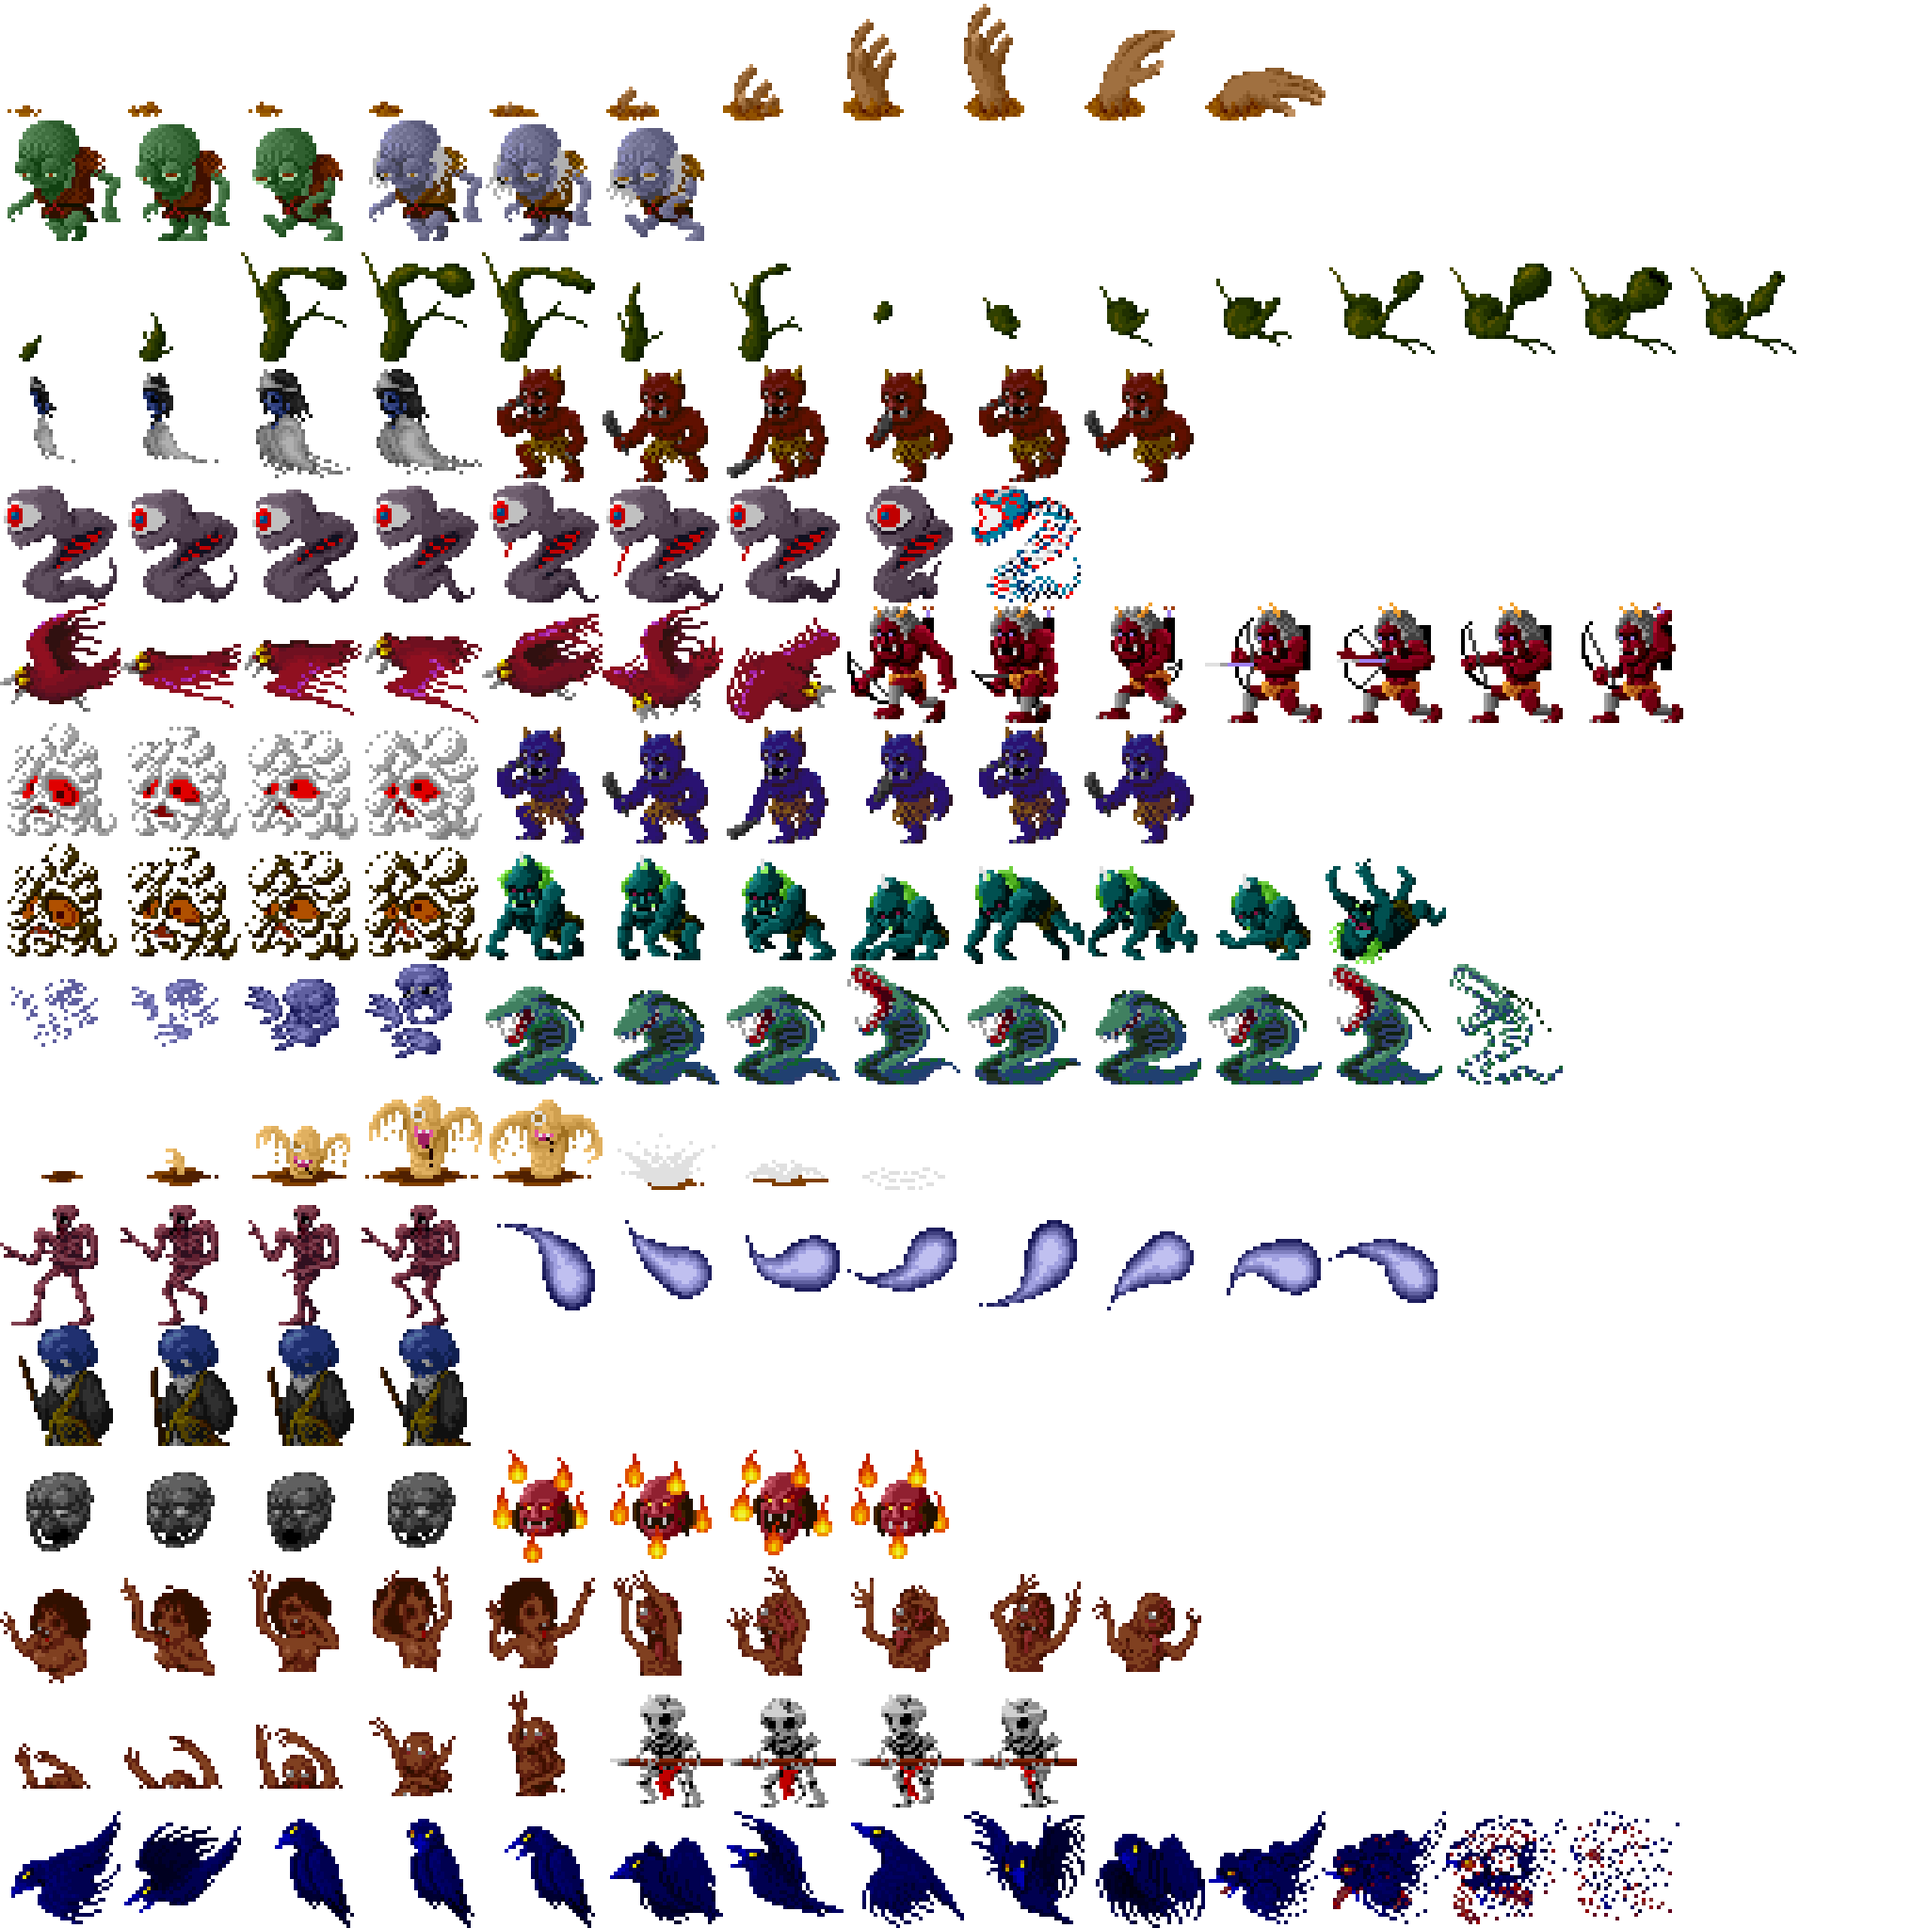
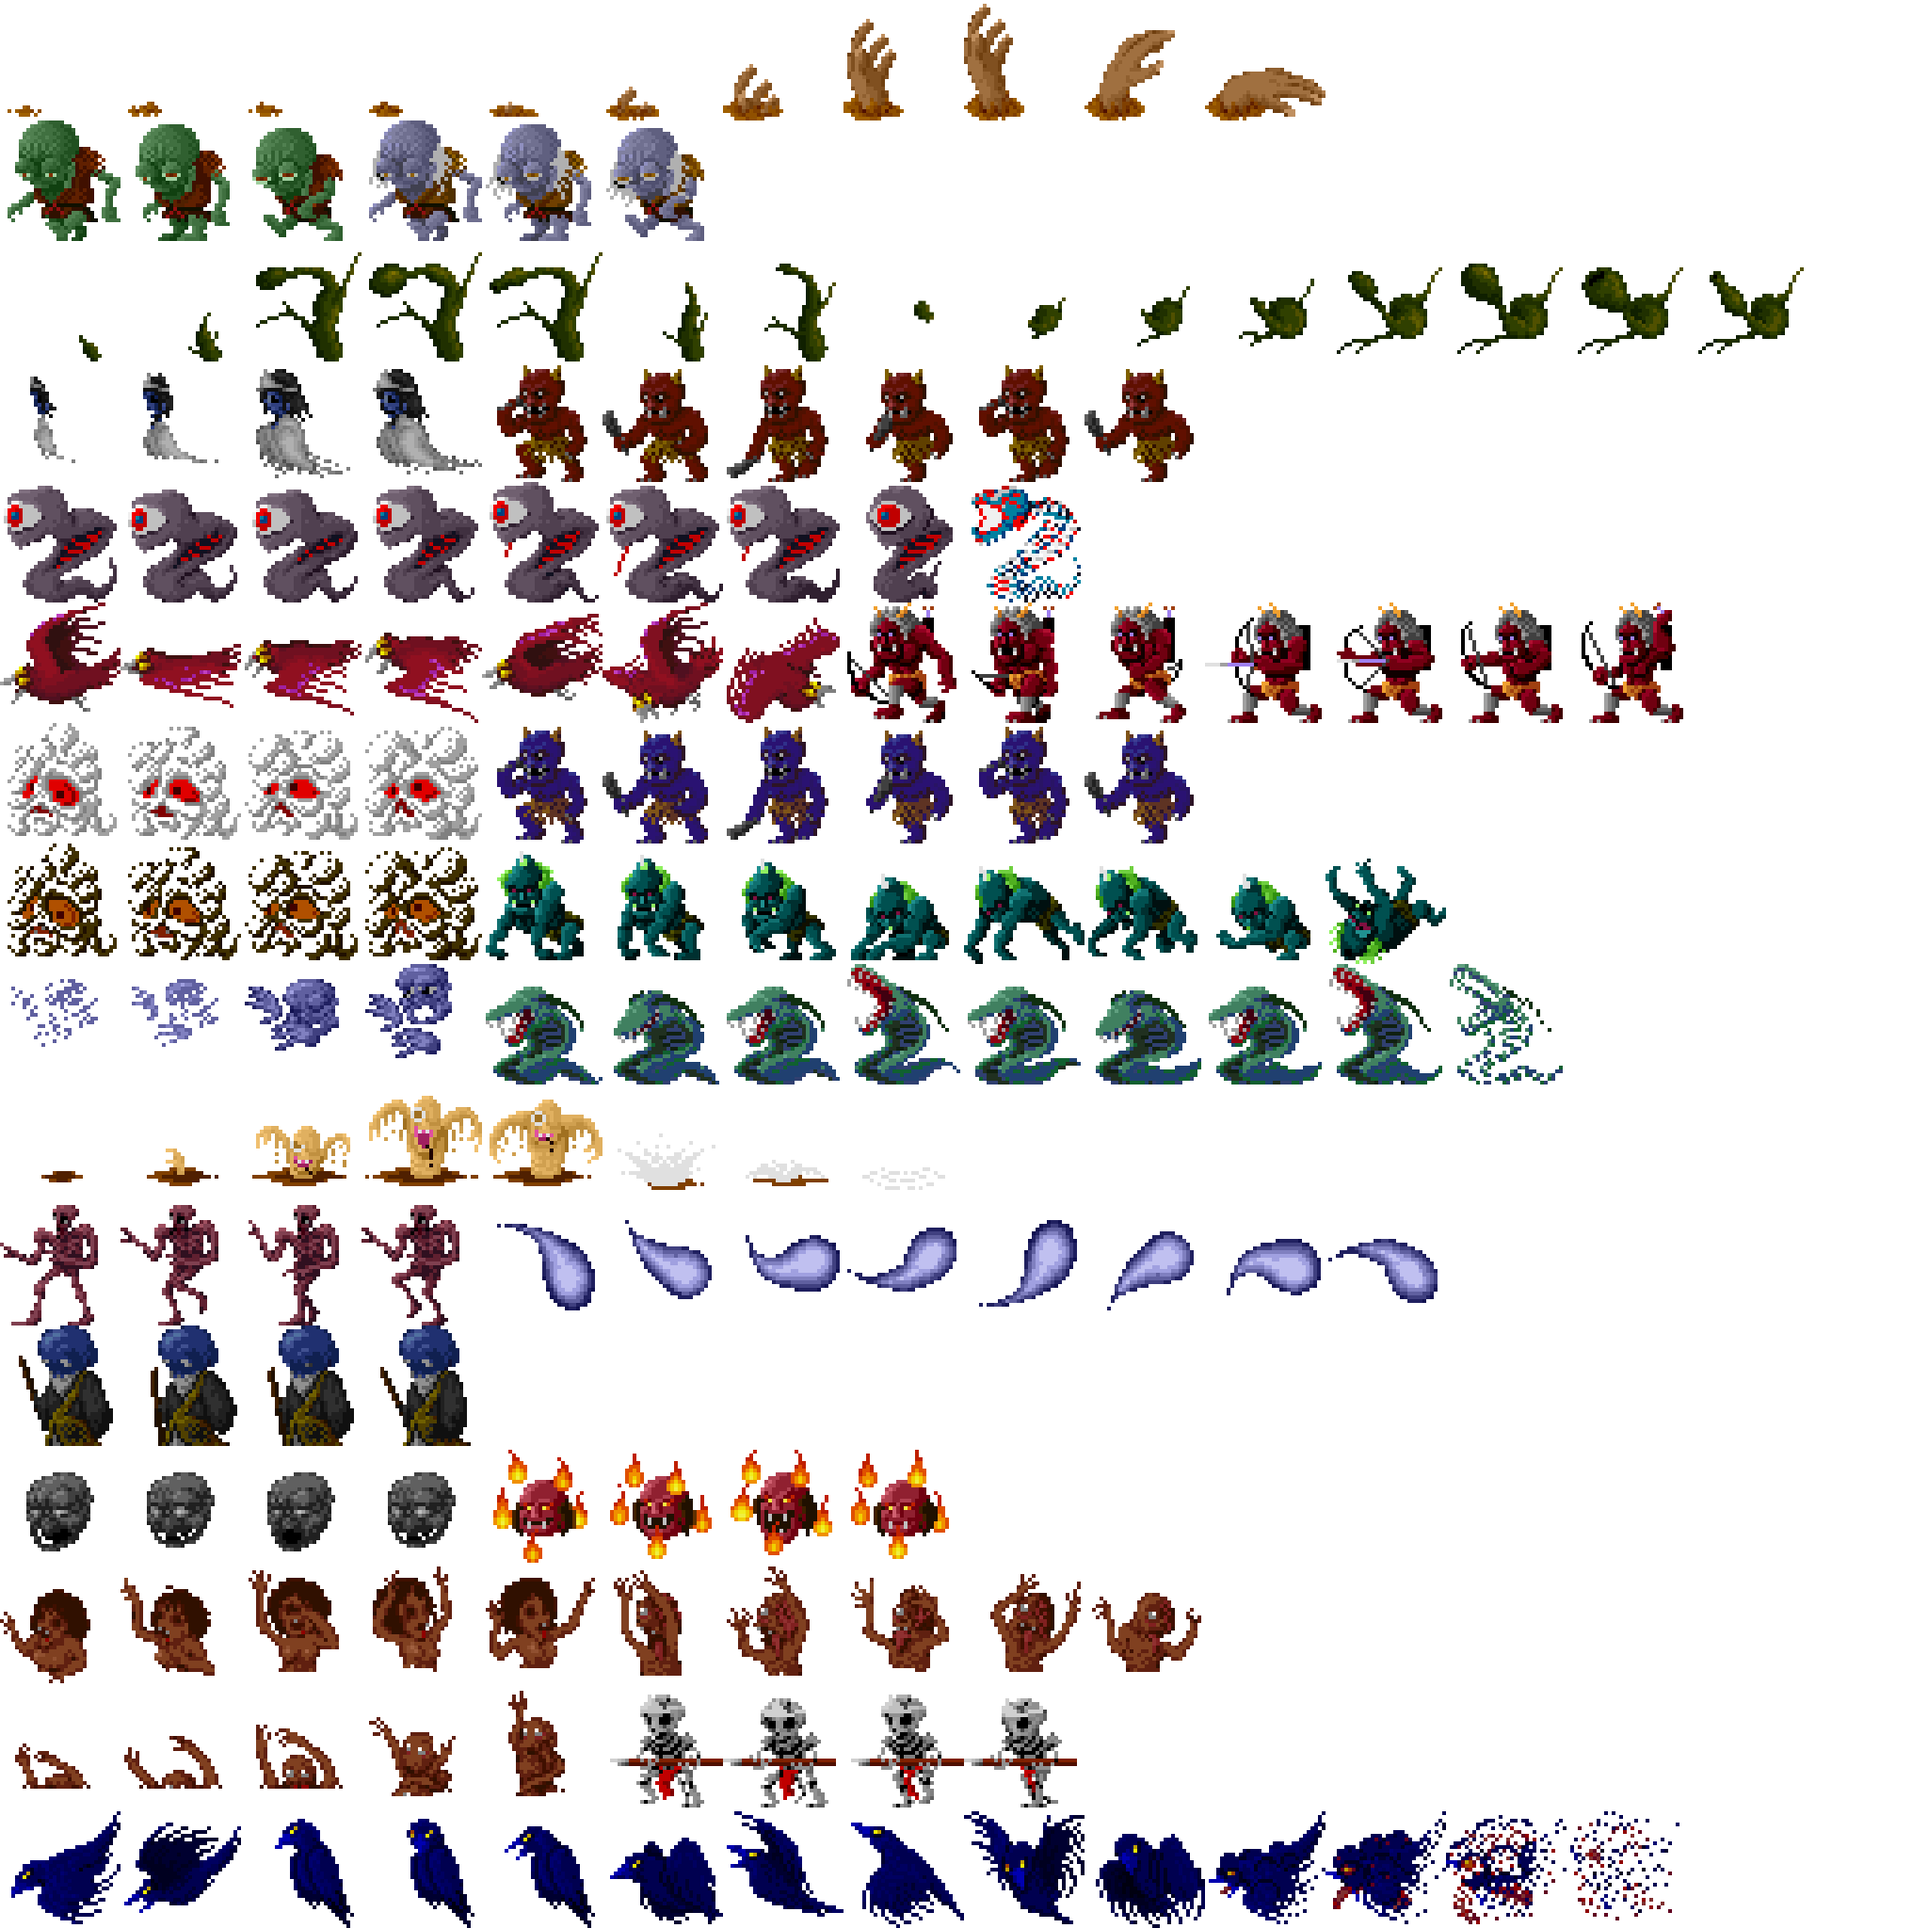
樹妖の枝が登場するようになりました

Changed region(s): [[0.5, 0.125, 0.9375, 0.1875], [0.0625, 0.125, 0.4375, 0.1875]]

diff --git a/Solution/EnemyGrowFace.cpp b/Solution/EnemyGrowFace.cpp
@@ -20,24 +20,29 @@ EnemyGrowFace::~EnemyGrowFace( ) {
 void EnemyGrowFace::act( ) {
 	_anime_count++;
 	switch( _action ) {
-	case ACTION_GROW: {
-		const int GROW_PATTERN[ ] = { 0, 1, 2, 3, 4, 5 };
-		int pattern_num = sizeof( GROW_PATTERN ) / sizeof( GROW_PATTERN[ 0 ] );
-		int u = GROW_PATTERN[ ( _anime_count / WAIT_ANIME_TIME ) % pattern_num ];
-		setChipGraph( GRAPH_ENEMY_SMALL, u, 3 );
-		if( u == 5 ) {
-			_action = ACTION_ATTACK;
-		}
+	case ACTION_GROW: 
+		actGrow( );
+		break;
+	case ACTION_ATTACK:
+		actAttack( );
 		break;
 	}
-	case ACTION_ATTACK:{
-		setAccelX( -MOVE_SPEED );
-		const int MAX_ATTACK_PATTERN = 2;
-		const int ATTACK_PATTERN[ MAX_ATTACK_PATTERN ] = { 6, 7 };
-		int pattern = ATTACK_PATTERN[ ( getX( ) / WAIT_ANIME_TIME ) % MAX_ATTACK_PATTERN ];
-		setChipGraph( GRAPH_ENEMY_SMALL, pattern, 3 );
-		break;
-	}
+}
 
+void EnemyGrowFace::actGrow( ) {
+	const int GROW_PATTERN[ ] = { 0, 1, 2, 3, 4, 5 };
+	int pattern_num = sizeof( GROW_PATTERN ) / sizeof( GROW_PATTERN[ 0 ] );
+	int u = GROW_PATTERN[ ( _anime_count / WAIT_ANIME_TIME ) % pattern_num ];
+	setChipGraph( GRAPH_ENEMY_SMALL, u, 3 );
+	if( u == 5 ) {
+		_action = ACTION_ATTACK;
 	}
+}
+
+void EnemyGrowFace::actAttack( ) {
+	setAccelX( -MOVE_SPEED );
+	const int MAX_ATTACK_PATTERN = 2;
+	const int ATTACK_PATTERN[ MAX_ATTACK_PATTERN ] = { 6, 7 };
+	int pattern = ATTACK_PATTERN[ ( getX( ) / WAIT_ANIME_TIME ) % MAX_ATTACK_PATTERN ];
+	setChipGraph( GRAPH_ENEMY_SMALL, pattern, 3 );
 }

diff --git a/Solution/EnemyTreeMonster.cpp b/Solution/EnemyTreeMonster.cpp
@@ -1,4 +1,6 @@
 #include "EnemyTreeMonster.h"
+#include "EnemyBranchMonster.h"
+
 
 static const int CHIP_SIZE = 512;
 static const int CHIP_FOOT = 10;
@@ -6,20 +8,17 @@ static const int GRAPH_HEIGHT = 256;
 static const int HP  = 10;
 static const int POW = 3;
 static const int CREATE_COUNT_GRAW_FACE = 120;
-static const int BORN_1_X = 20;
-static const int BORN_1_Y = 110;
-static const int BORN_2_X = -30;
-static const int BORN_2_Y = 150;
-static const int BORN_3_X = -40;
-static const int BORN_3_Y = 70;
-static const int BORN_4_X = -220;
-static const int BORN_4_Y = 110;
+static const int BORN_1_X = -130;
+static const int BORN_1_Y = -50;
+
 
 EnemyTreeMonster::EnemyTreeMonster( EnemyStockPtr stock, int x, int y ) :
 Enemy( x, y, CHIP_SIZE, CHIP_FOOT, true, HP, POW ) {
 	setChipGraph( GRAPH_ENEMY_TREE_2, 0, 0 );
 	setChipReverse( false );
-	_stock = stock;
+	x = getX( ) + BORN_1_X;
+	y = getY( ) + BORN_1_Y;
+	stock->addEnemy( EnemyPtr( new EnemyBranchMonster( x, y ) ) );
 }
 
 

diff --git a/Solution/EnemyTreeMonster.h b/Solution/EnemyTreeMonster.h
@@ -11,6 +11,7 @@ private:
 	double getOverlappedRadius( ) const;
 	int _count;
 private:
-	EnemyStockPtr _stock;
+	int x;
+	int y;
 	Vector getOverlappedPos( ) const;
 };

diff --git a/Solution/EnemyGrowFace.h b/Solution/EnemyGrowFace.h
@@ -7,6 +7,8 @@ public:
 	virtual ~EnemyGrowFace( );
 private:
 	void act( );
+	void actGrow( );
+	void actAttack( );
 private:
 	enum ACTION {
 		ACTION_GROW,
